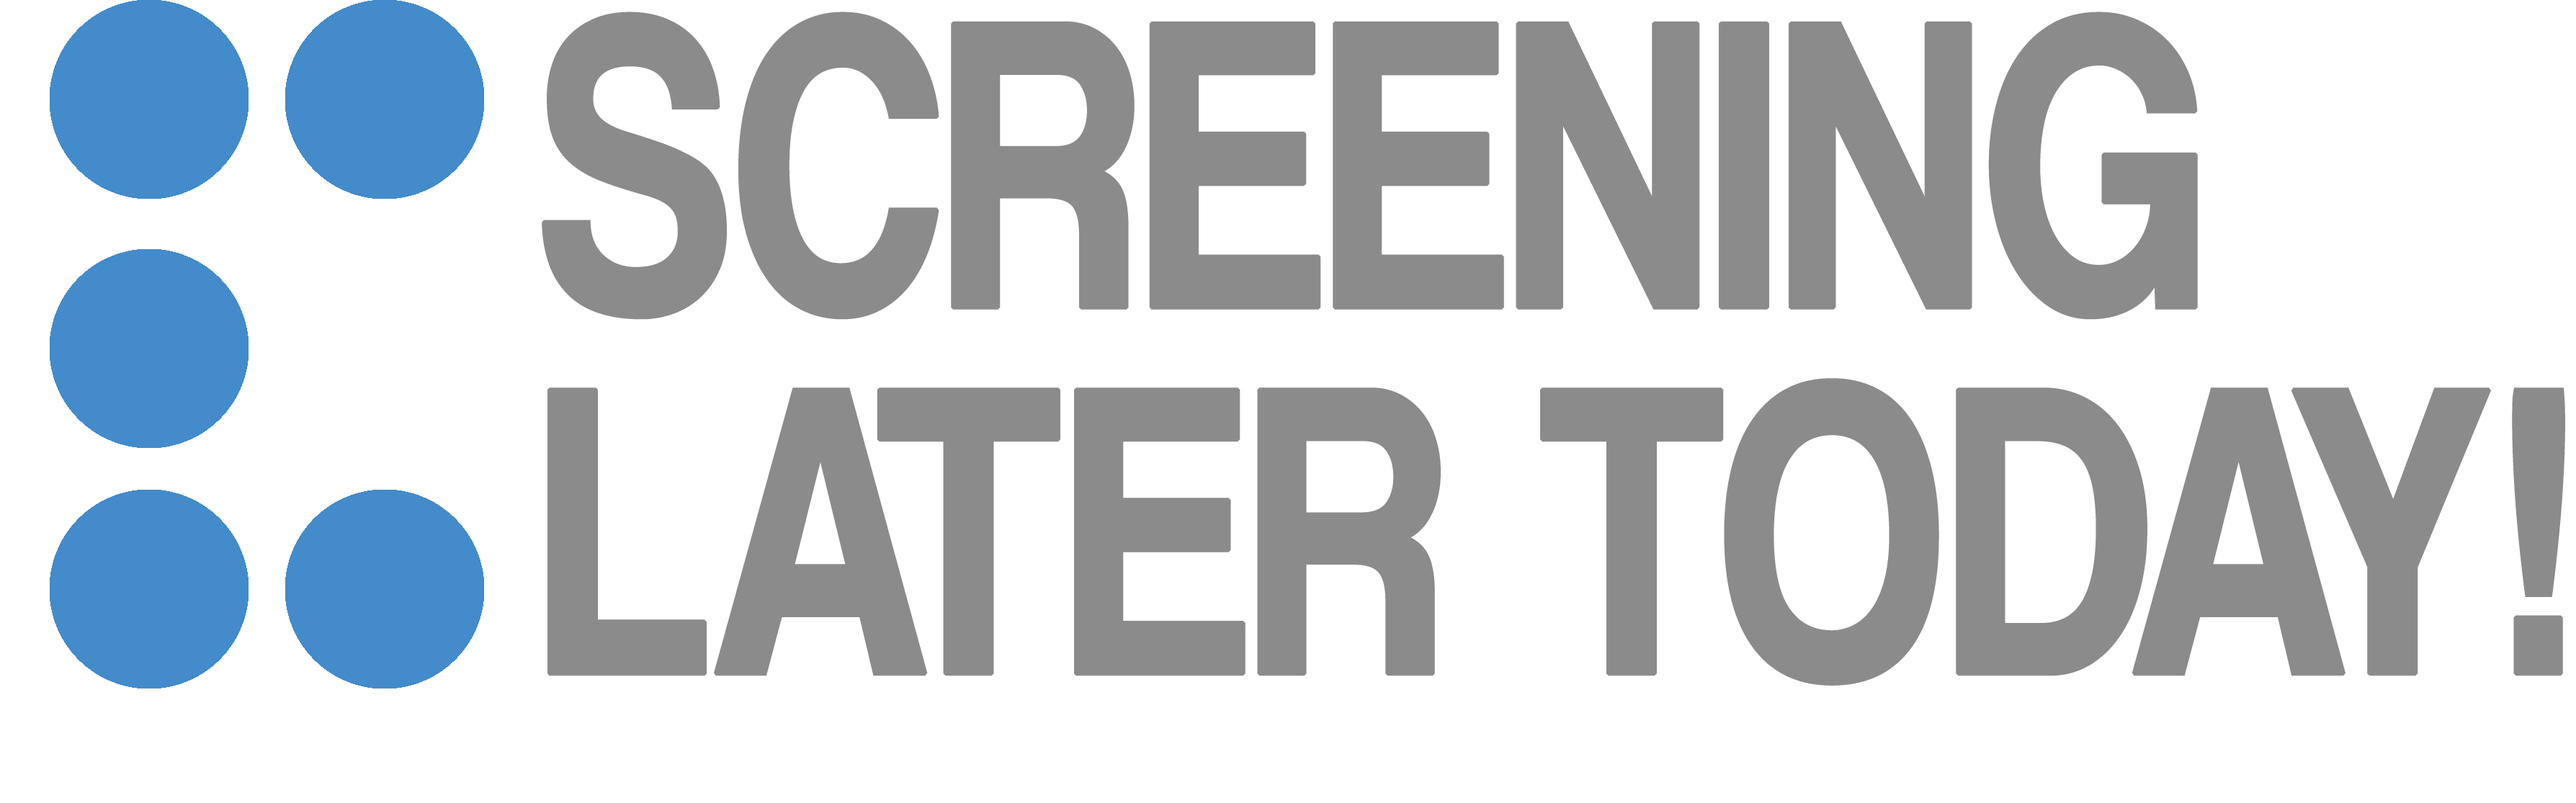
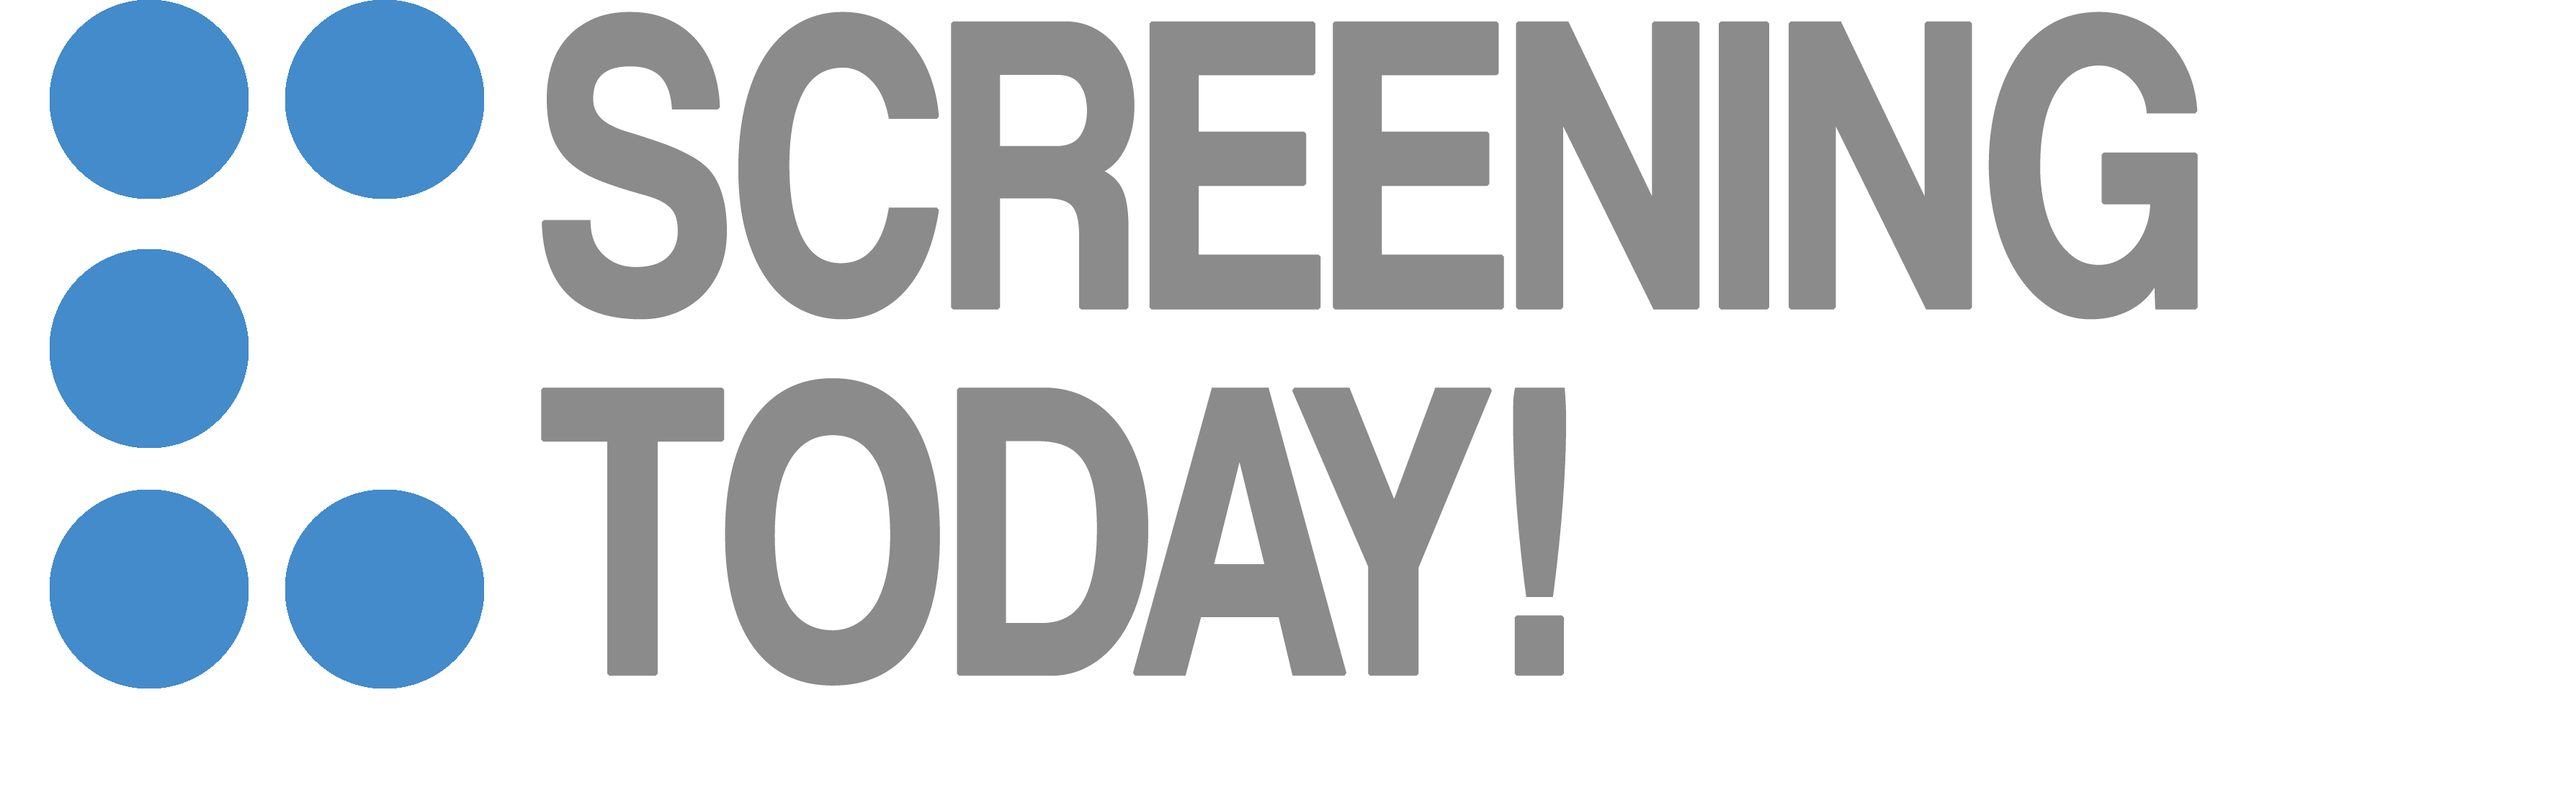
Fixes upcoming_screening method

Changed region(s): [[0.1862, 0.4574, 1.0, 0.8538]]

diff --git a/spec/features/screenings_feature_spec.rb b/spec/features/screenings_feature_spec.rb
@@ -96,13 +96,14 @@ feature 'screenings' do
       expect(page).to have_css("//img[@src*='/assets/tomorrow-05cdaafd652e33683f752fdab9af5f3aa41cafbd11092f2cbcab5a69a47e8d56.png']")
     end
 
-    xscenario "We see the relevant message when the nearest screening is later today" do
+    scenario "We see the relevant message when the nearest screening is today" do
       film = Film.create(title: 'Brazil', tmdb_id: '68', poster_path: '/pVlZBKp8v3Jzd0ahPmrBGlbeQ2s.jpg')
       Screening.create(film_id: film.id, screen_date: Time.now + 500)
       sign_up
       click_link_cinefile
       add_film
-      expect(page).to have_content("Screening later today!")
+      # Image for 'SCREENING TODAY!':
+      expect(page).to have_css("//img[@src*='/assets/today-4192e5af125438055612e4332aac0cbd2440b4a14a2d5746f1af32b6a5360562.png']")
     end
   end
 end

diff --git a/app/models/film.rb b/app/models/film.rb
@@ -7,7 +7,7 @@ class Film < ActiveRecord::Base
   validates :tmdb_id, uniqueness: true
 
   def upcoming_screening?
-    return true if upcoming_screenings_within_fortnight?
+    return true if days_until_nearest_screening && screenings_within_the_fortnight?
     return false
   end
 
@@ -18,15 +18,8 @@ class Film < ActiveRecord::Base
 
 private
 
-  def upcoming_screenings_within_fortnight?
-    @screenings = screenings.all
-    screenings_within_the_fortnight = []
-    @screenings.each do |screening|
-      if screening.screen_date < Time.now + 1209600 && screening.screen_date > Time.now
-        screenings_within_the_fortnight << screening
-      end
-    end
-    !screenings_within_the_fortnight.empty?
+  def screenings_within_the_fortnight?
+    days_until_nearest_screening < 15
   end
 
 end
